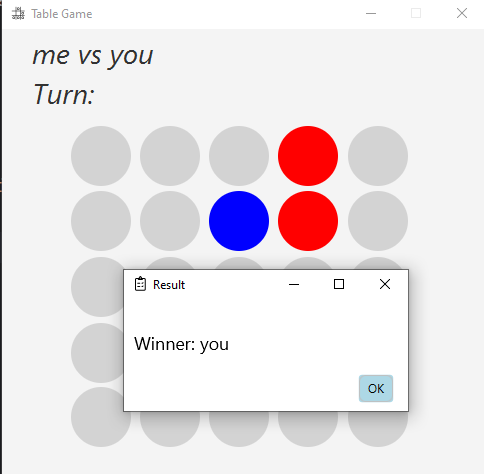
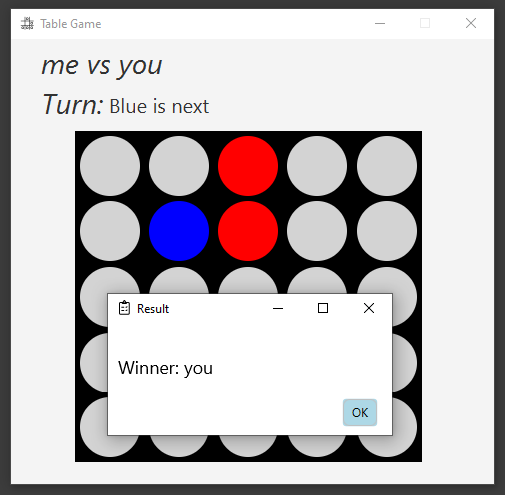
added css and updated image

diff --git a/src/main/java/tablegame/style/styleInfo.css b/src/main/java/tablegame/style/styleInfo.css
@@ -13,20 +13,10 @@
     -fx-font-size: 18px;
     -fx-text-fill: black;
     -fx-translate-x: 10;
-}
-
-.label1 {
     -fx-translate-y: 30;
 }
 
 .imageView1 {
-    -fx-translate-x: 10;
-    -fx-translate-y: 150;
-    -fx-border-width: 3px;
-    -fx-border-color: black;
-}
-
-.imageView2 {
-    -fx-translate-x: 440;
+    -fx-translate-x: 250;
     -fx-translate-y: 150;
 }

diff --git a/src/main/java/tablegame/style/styleStats.css b/src/main/java/tablegame/style/styleStats.css
@@ -1,8 +1,5 @@
-.buttonClose {
-    -fx-background-color: #4CAF50;
-    -fx-text-fill: white;
-}
-
 .buttonClose:hover {
     -fx-background-color: black;
+    -fx-cursor: hand;
+    -fx-text-fill: white;
 }

diff --git a/src/main/resources/fxml/gameUI.css b/src/main/resources/fxml/gameUI.css
@@ -5,4 +5,6 @@
 .state {
     -fx-alignment: center;
     -fx-translate-x: 50;
+    -fx-background-color: black;
+    -fx-padding: 5px;
 }

diff --git a/src/main/java/tablegame/gui/GameMenuController.java b/src/main/java/tablegame/gui/GameMenuController.java
@@ -21,9 +21,6 @@ import java.io.IOException;
 public class GameMenuController {
 
     @FXML
-    private FXMLLoader fxmlLoader;
-
-    @FXML
     private TextField nameTextFieldPlayerOne;
 
     @FXML
@@ -31,9 +28,6 @@ public class GameMenuController {
 
     @FXML
     private Label errorLabelText;
-
-    @FXML
-    private Button startGameButton;
 
     @FXML
     private Button informationButton;
@@ -47,12 +41,7 @@ public class GameMenuController {
     @FXML
     private Button statsButton;
 
-    @FXML
-    private Button showScoreBoardButton;
-
     private static final String IMAGEPATH1 = "src/main/java/tablegame/images/image.png";
-
-    private static final String IMAGEPATH2 = "src/main/java/tablegame/images/image2.png";
 
     private static final String STYLEGAMESCENEPATH = "file:src/main/java/tablegame/style/styleGameScene.css";
 
@@ -116,24 +105,14 @@ public class GameMenuController {
         label1.getStyleClass().add("label1");
 
         Image image1 = new Image(new FileInputStream(IMAGEPATH1));
-        Image image2 = new Image(new FileInputStream(IMAGEPATH2));
 
         ImageView imageView1 = new ImageView(image1);
         imageView1.setX(100);
         imageView1.setY(70);
         imageView1.setFitHeight(300);
         imageView1.setFitWidth(300);
-        imageView1.setPreserveRatio(true);
         imageView1.getStyleClass().add("imageView1");
 
-        // test
-        ImageView imageView2 = new ImageView(image2);
-        imageView2.setX(100);
-        imageView2.setY(70);
-        imageView2.setFitHeight(300);
-        imageView2.setFitWidth(300);
-        imageView2.setPreserveRatio(true);
-        imageView2.getStyleClass().add("imageView2");
 
         Button buttonClose = new Button("Close");
         buttonClose.getStyleClass().add("buttonClose");

diff --git a/src/main/java/tablegame/gui/GameSceneController.java b/src/main/java/tablegame/gui/GameSceneController.java
@@ -11,7 +11,6 @@ import javafx.scene.layout.StackPane;
 import javafx.scene.paint.Color;
 import javafx.scene.paint.Paint;
 import javafx.scene.shape.Circle;
-import org.tinylog.Logger;
 import tablegame.BoardGameMoveSelector;
 import tablegame.model.BoardGameModel;
 import tablegame.model.Position;
@@ -25,9 +24,6 @@ public class GameSceneController {
 
     @FXML
     private Label playerNameOneText;
-
-    @FXML
-    private Label playerNameTwoText;
 
     @FXML
     private Label nextPlayerText;
@@ -49,11 +45,8 @@ public class GameSceneController {
             }
         }
         selector.phaseProperty().addListener(this::showSelectionPhaseChange);
-        // itt egybe adom a neveket lehet majd nem lesz jo ha latni akarjuk hogy ki jon
-        Platform.runLater(() -> playerNameOneText.setText(playerNameOne + " vs " + playerNameTwo));
 
-        // lehet ezt hasznalni hogy lassuk kinek kell lepni, hasonlo logika alapjan
-        //Platform.runLater(() -> playerNameTwoText.setText(playerNameTwo));
+        Platform.runLater(() -> playerNameOneText.setText(playerNameOne + " vs " + playerNameTwo)); // 🔵
     }
 
     private StackPane createState(int i, int j){
@@ -155,6 +148,4 @@ public class GameSceneController {
     public void setPlayerNameTwoText(String playerNameTwo){
         this.playerNameTwo = playerNameTwo;
     }
-
-
 }
